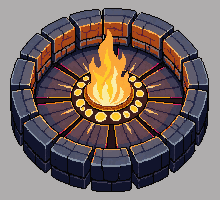
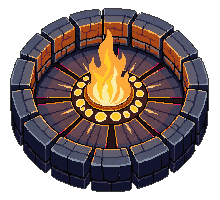
The panel dies, the river flows: the hearth stands honest on a lit floor
The white box was the documented trap: map-objects ship on an opaque
panel and the hearth went in raw; remove-bg ran and the transparency
is now verified in numbers, not by eye. The lava stopped being debris:
the harvest cuts an ORDERED strip down the painting core and tiles
pick by position along the trench, so downstream neighbors continue
the flow and the channel reads as one molten body. Its banks rise as
real block columns now (rock beside the melt drew nothing and left
black holes). The room got seeable: hearth reach spans the hall,
ambient up, walls and mass lifted a step. Moody, not blind.

diff --git a/src/game/island/cave/PantherCaveIso.tsx b/src/game/island/cave/PantherCaveIso.tsx
@@ -62,7 +62,7 @@ export default function PantherCaveIso() {
       let hearthT: Texture | undefined
       await Promise.all([
         ...Array.from({ length: 16 }, (_, i) => Assets.load(`/art/island/cave/${FLOOR_ALT ? 'floor' : 'floor2'}/top-${i}.png`).then((t: Texture) => { t.source.scaleMode = 'nearest'; floorT[i] = t }).catch(() => {})),
-        ...Array.from({ length: 8 }, (_, i) => Assets.load(`/art/island/cave/lava/top-${i}.png`).then((t: Texture) => { t.source.scaleMode = 'nearest'; lavaT[i] = t }).catch(() => {})),
+        ...Array.from({ length: 24 }, (_, i) => Assets.load(`/art/island/cave/lava/top-${i}.png`).then((t: Texture) => { t.source.scaleMode = 'nearest'; lavaT[i] = t }).catch(() => {})),
         ...[0, 1, 2, 3].map((i) => Assets.load(`/art/island/cave/blocks/block-${i}.png`).then((t: Texture) => { t.source.scaleMode = 'nearest'; sideW.push(t) }).catch(() => {})),
         Assets.load('/art/island/cave/props/hearth.png').then((t: Texture) => { t.source.scaleMode = 'nearest'; hearthT = t }).catch(() => {}),
       ])
@@ -132,9 +132,10 @@ export default function PantherCaveIso() {
         .map((s) => [s.anchor[0], s.anchor[1], s.id === 'C4-principal-desk' ? 0.7 : 0.45])
       type Light = { warm: number; ember: number; cool: number }
       const lightAt = (tx: number, ty: number): Light => {
-        // (1) the hearth — the room's heart, brightest interior point
+        // (1) the hearth — the room's heart, brightest interior point (its
+        // reach spans the grand hall: the room must be SEEABLE, moody ≠ blind)
         const dh = Math.hypot(tx - HEARTH[0], ty - HEARTH[1])
-        let warm = 1.3 * Math.pow(Math.max(0, 1 - dh / 13), 1.6)
+        let warm = 1.3 * Math.pow(Math.max(0, 1 - dh / 17), 1.5)
         // (2) the mouth-light — a pool on the shelf + the long wedge down the stair
         const vx = tx - MOUTH[0], vy = ty - MOUTH[1]
         const d = Math.hypot(vx, vy)
@@ -175,7 +176,7 @@ export default function PantherCaveIso() {
         // lattice (the m1/m3 crop verdict) — the light gradients own value
         const grain = 0.97 + 0.06 * vnoise(tx / 13 + 8, ty / 13 + 3)
         const wear = 0.98 + 0.04 * vnoise(tx / 21 + 2, ty / 21 + 6)
-        let v = 0.17 + 0.9 * warm + 0.5 * ember
+        let v = 0.24 + 0.9 * warm + 0.5 * ember
         if (L === 1) v += 0.05  // the dais reads a breath lifted
         if (L === 3) v += 0.03  // the shelf under the mouth pool
         v *= grain * wear
@@ -194,23 +195,24 @@ export default function PantherCaveIso() {
           const zBase = (tx + ty) * 4000 + lift * 2
 
           if (L === -2) {
-            // THE LIVING LAVA: bright molten floor first (the P1 read that
-            // held), the harvested texture as variation on top — the trench
-            // must BURN, never smudge
+            // THE LIVING LAVA as ONE FLOWING BODY: tiles pick ORDERED crops by
+            // their position ALONG the trench, so downstream neighbors continue
+            // the painting's flow — random picks read as scattered debris
             const pool = lavas.length ? lavas : floors
             if (!pool.length) continue
-            const lv = new Sprite(pool[Math.floor(hash(tx * 3.1, ty * 1.7) * pool.length) % pool.length])
+            const tvx = TRENCH.x1 - TRENCH.x0, tvy = TRENCH.y1 - TRENCH.y0
+            const tAlong = Math.max(0, Math.min(1, ((tx - TRENCH.x0) * tvx + (ty - TRENCH.y0) * tvy) / (tvx * tvx + tvy * tvy)))
+            const lane = ((tx * tvy - ty * tvx) > (TRENCH.x0 * tvy - TRENCH.y0 * tvx)) ? 0 : 12 // which of the two harvested runs
+            const idx = (lane + Math.floor(tAlong * 11.99)) % pool.length
+            const lv = new Sprite(pool[idx] ?? pool[0])
             lv.anchor.set(0.5, 0.5)
             lv.position.set(bx, isoY(tx, ty))
-            lv.scale.set((hash(tx * 2.3, ty * 5.9) > 0.5 ? -1 : 1) * 1.04, 1.04)
-            // hot core along the channel's spine, ember at its banks — the
-            // harvested tiles carry white-gold cores; the tint stays HOT
             const spine = 1 - Math.min(1, trenchNear(tx + 0.5, ty + 0.5) / 1.6)
-            const core = 0.95 + 0.25 * spine + 0.08 * vnoise(tx / 2.2 + 3, ty / 2.2 + 8)
+            const core = 0.95 + 0.25 * spine + 0.05 * vnoise(tx / 3 + 3, ty / 3 + 8)
             lv.tint = tint24(Math.min(1, core), core * (0.66 + 0.24 * spine), core * 0.3)
             lv.zIndex = zBase + 3
             world.addChild(lv)
-            pulses.push({ sp: lv, ph: hash(tx, ty) * 6.28 + (tx + ty) * 0.55, base: core, spine })
+            pulses.push({ sp: lv, ph: (tx + ty) * 0.5, base: core, spine })
             continue
           }
 
@@ -323,7 +325,7 @@ export default function PantherCaveIso() {
           // glints so the mountain reads alive, never flat black fill
           const drift = 0.75 + 0.5 * vnoise(mx / 16 + 4, my / 16 + 9)
           const glint = hash(mx * 12.7, my * 9.3) > 0.985 ? 0.05 : 0
-          const v = 0.095 * drift
+          const v = 0.125 * drift
           sp.tint = tint24(v * 0.82 + glint * 1.6, v * 0.7 + glint * 0.7, v * 1.25 + glint * 0.2)
           sp.zIndex = ((scale2 ? mx + 1 : mx) + (scale2 ? my + 1 : my)) * 4000 + lift * 2 + 4
           world.addChild(sp)
@@ -350,7 +352,8 @@ export default function PantherCaveIso() {
           if (lvlAt(tx, ty) !== -1 || !sides.length) continue
           let minFloor = 99, maxFloor = -1, floorSum = Infinity, anyFloor = false
           for (const [ox, oy] of [[1, 0], [-1, 0], [0, 1], [0, -1], [1, 1], [-1, -1], [1, -1], [-1, 1]] as const) {
-            const nl = eLvl(tx + ox, ty + oy)
+            const raw = eLvl(tx + ox, ty + oy)
+            const nl = raw === -2 ? 0 : raw // the melt counts as ground: its banks rise like any wall (holes read beside the channel otherwise)
             if (nl >= 0) { anyFloor = true; minFloor = Math.min(minFloor, nl); maxFloor = Math.max(maxFloor, nl); floorSum = Math.min(floorSum, (tx + ox) + (ty + oy)) }
           }
           if (!anyFloor) continue
@@ -392,9 +395,9 @@ export default function PantherCaveIso() {
             seg.position.set(bx, by - (k + 1) * STEP + 8)
             // smooth height decay — a per-course power curve printed
             // horizontal bands; this fades continuously into the vault
-            const kk = 1 / (1 + k * 0.16)
+            const kk = 1 / (1 + k * 0.14)
             const drift = 0.9 + 0.18 * vnoise(tx / 6 + 2.2 + k * 0.07, ty / 6 + 7.7 - k * 0.05)
-            let v = (0.3 + 0.72 * warm + 0.5 * ember) * kk * drift
+            let v = (0.38 + 0.72 * warm + 0.5 * ember) * kk * drift
             if (isMouth) v = Math.max(v, 0.5) // the lintel catches the blaze
             seg.tint = hueMix(v, ember, 0)
             if (DBG) seg.tint = behind ? 0x8040ff : 0xff8040
